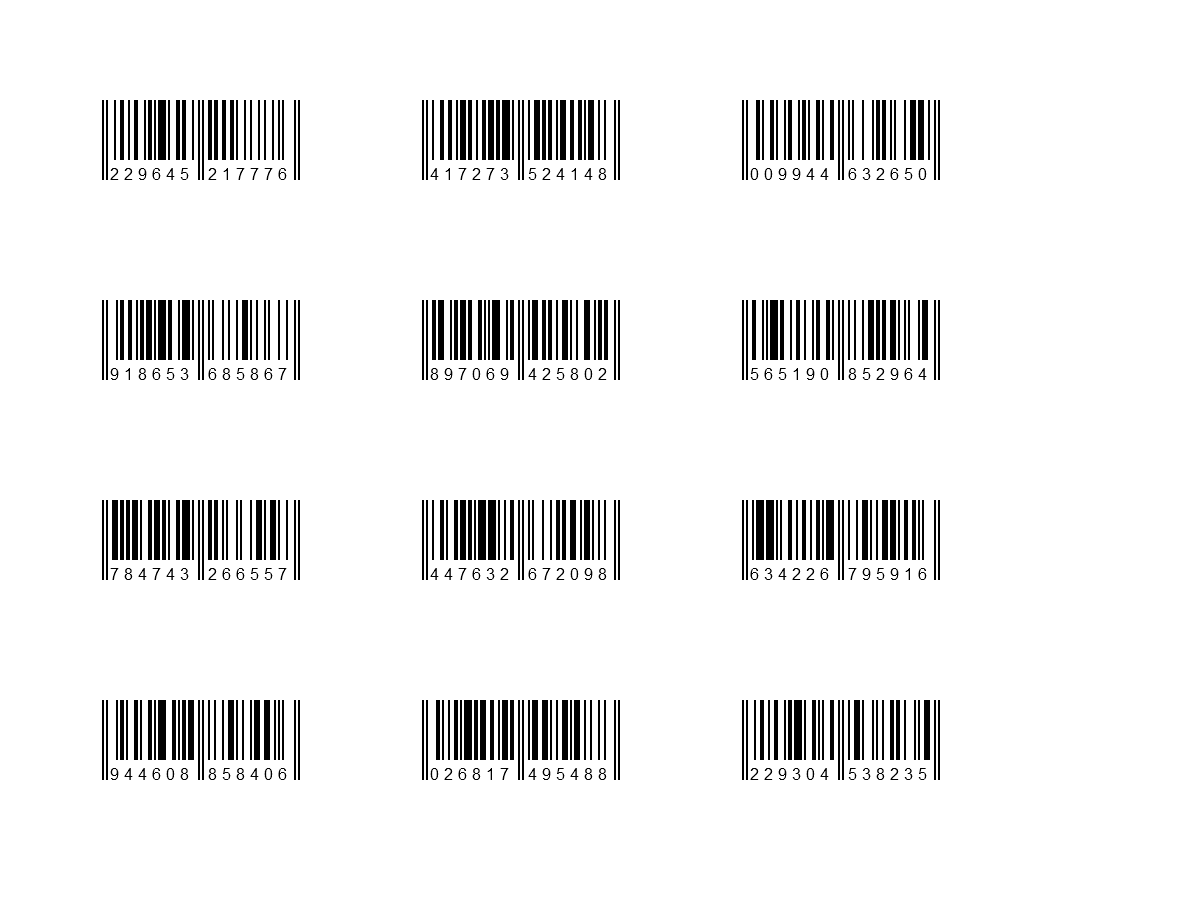
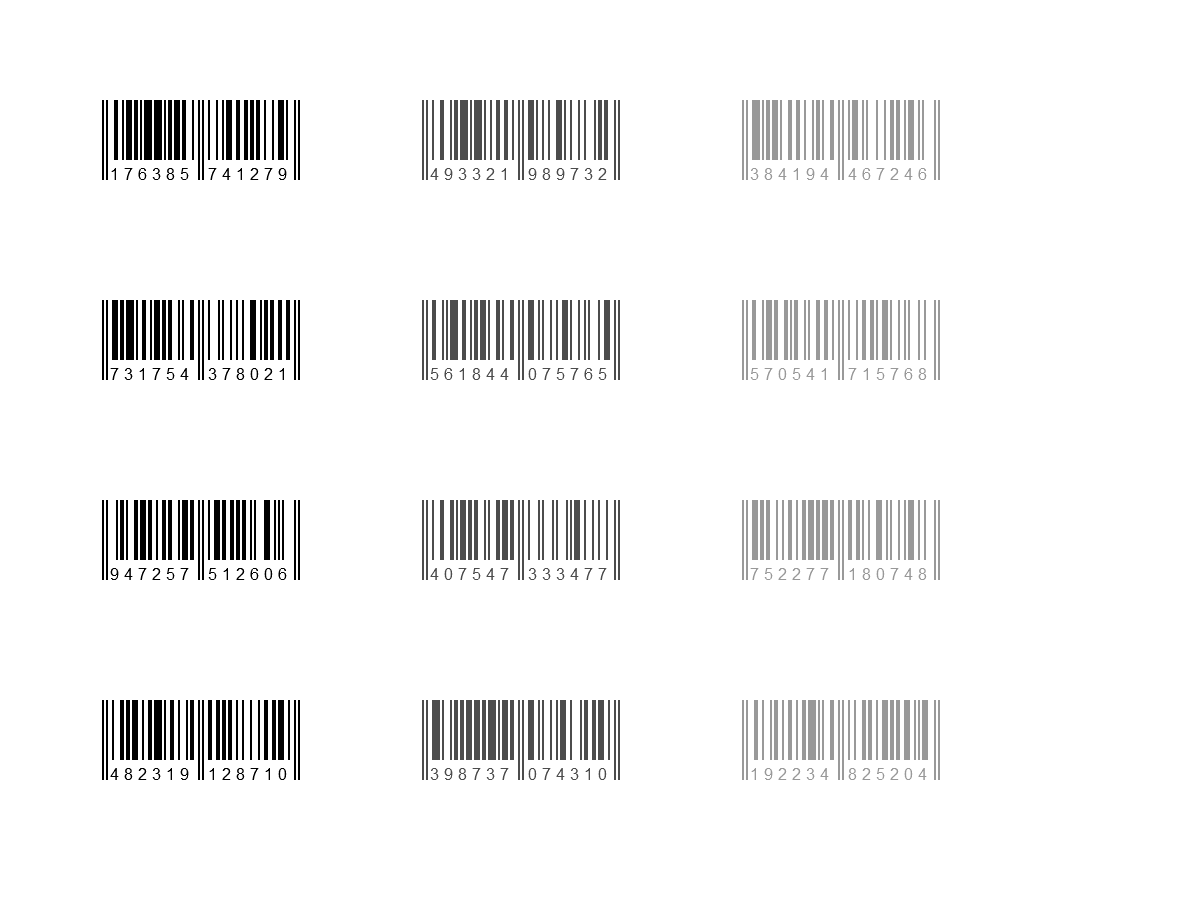
最终完成代码，添加细节

diff --git a/workhard/barcode.py b/workhard/barcode.py
@@ -3,6 +3,9 @@
 
 import random
 import cairo
+import math
+
+## 初始参数设定，转义字典
 dict_lcode = {
  0: "0001101",
  1: "0011001",
@@ -27,12 +30,12 @@ dict_rcode = {
  8: "1001000",
  9: "1110100"
 }
-WIDTH, HEIGHT = 1200, 900
+WIDTH, HEIGHT = 1200, 900         #输出图片大小
 Width_per_code = 2
-Height_per_code = 80  
-xpos,ypos=0,0
+Height_per_code = 80               #单条黑线长和宽
+xpos,ypos=0,0                      #画笔坐标设置
 surface = cairo.ImageSurface (cairo.FORMAT_ARGB32, WIDTH, HEIGHT)
-ctx = cairo.Context (surface)
+ctx = cairo.Context (surface)      #创建ctx画笔
 def Numcre():             #获得随机生成的N位数字
     num=[0]
     lnum=[]
@@ -45,77 +48,73 @@ def Numcre():             #获得随机生成的N位数字
         check2 = 0
     num.append(check2)
     for i in range(1,7):
-        lnum.append(num[i])
+        lnum.append(num[i])          #左侧数字储存数组
     for i in range(7,13):
-        rnum.append(num[i])
+        rnum.append(num[i])          #右侧
     return lnum,rnum
-def Lcodecre(num):             #左边数字转义函数
+def Lcodecre(num):                   #左边数字转义函数
     code=''
     for i in range(len(num)):
         code+=dict_lcode[num[i]]
     return code
-def Rcodecre(num):              #右边数字转义函数
+def Rcodecre(num):                    #右边数字转义函数
     code=''
     for i in range(len(num)):
         code+=dict_rcode[num[i]]
     return code   
-class Drawcode(object):     #画图父类
-    
+class Drawcode(object):                #画图父类
     def __init__(self, ctx):
         self.ctx=ctx
     def draw(self, code):
         global xpos,ypos
         ctx.move_to(xpos,ypos)
-        ctx.set_source_rgb(0, 0, 0)
         for i,c in enumerate(code):
             xpos += Width_per_code 
             if c=='1' :
                 ctx.rectangle(xpos,ypos,Width_per_code,Height_per_code)
                 ctx.fill()
         xpos += Width_per_code
-class LeftRightGuard(Drawcode):
+class LeftRightGuard(Drawcode):     #左右侧保护处画图类
     def __init__(self):
         super(LeftRightGuard, self).__init__(ctx)
-class CenterGuard(Drawcode):
+class CenterGuard(Drawcode):        #中间保护处画图类
     def __init__(self):
         super(CenterGuard, self).__init__(ctx)
-class Leftcode(Drawcode):
-    
+class Leftcode(Drawcode):            #左侧编码画图类
     def draw(self):
         global lnum
         lcode=Lcodecre(lnum)
         global xpos,ypos
         ctx.move_to(xpos,ypos)
-        ctx.set_source_rgb(0, 0, 0)
+        #ctx.set_source_rgb(0, 0, 0)
         for i,c in enumerate(lcode):
             xpos += Width_per_code 
             if c=='1' :
                 ctx.rectangle(xpos,ypos,Width_per_code,Height_per_code-20)
                 ctx.fill()
-            if i%7==0:
+            if i%7==0:               #添加数字处
                 ctx.move_to(xpos,ypos+Height_per_code)
                 ctx.set_font_size(16)
                 ctx.show_text("%s"%lnum[i/7])
         xpos += Width_per_code
-class Rightcode(Drawcode):
-    
+class Rightcode(Drawcode):          #右侧编码画图类
     def draw(self):
         global rnum
         rcode=Rcodecre(rnum)
         global xpos,ypos
         ctx.move_to(xpos,ypos)
-        ctx.set_source_rgb(0, 0, 0)
+        #ctx.set_source_rgb(0, 0, 0)
         for i,c in enumerate(rcode):
             xpos += Width_per_code 
             if c=='1' :
                 ctx.rectangle(xpos,ypos,Width_per_code,Height_per_code-20)
                 ctx.fill()
-            if i%7==0:
+            if i%7==0:               #添加数字
                 ctx.move_to(xpos,ypos+Height_per_code)
                 ctx.set_font_size(16)
                 ctx.show_text("%s"%rnum[i/7])
         xpos += Width_per_code
-def create():
+def create():                       #调用所有画图函数，生成一个条码图
     s=Drawcode(ctx)
     l=Leftcode(ctx)
     r=Rightcode(ctx)
@@ -126,13 +125,16 @@ def create():
     cg.draw("01010")
     r.draw()
     lrg.draw("101")
-for i in (0,1,2):
+for i in (0,1,2):                    #生成4X3个条码
     for j in (0,1,2,3):
         xpos=100+320*i
         ypos=100+200*j
+        ctx.set_source_rgb(0.3*i,0.3*i ,0.3*i )
         lnum,rnum=Numcre()
         create()
-surface.write_to_png("code4.png")
-
+        for k in range(18*(j+1)):     #噪点添加
+            ctx.arc(random.randint(xpos-204,xpos),random.randint(ypos,ypos+60),2,0,2*math.pi)
+            ctx.stroke()
+surface.write_to_png("code7.png")
 
    

diff --git a/workhard/test.py b/workhard/test.py
@@ -45,7 +45,7 @@ def Numcre():
     return num,lnum
 m,n=Numcre()
 print m,n'''
-WIDTH, HEIGHT = 600, 300
+'''WIDTH, HEIGHT = 600, 300
 Width_per_code = 10
 Height_per_code = 200
 code =[0,1,0,1,0]
@@ -58,4 +58,10 @@ for i,c in enumerate("01010"):
     if c=='0' :
         ctx.rectangle(xpos,0,Width_per_code,Height_per_code)
         ctx.fill()
-surface.write_to_png("3.png")
+surface.write_to_png("3.png")'''
+surface = cairo.ImageSurface (cairo.FORMAT_ARGB32, 100, 100)
+ctx = cairo.Context (surface)
+ctx.set_source_rgb(0, 0, 0)
+ctx.arc(50,50,10,0,2*math.pi)
+ctx.stroke()
+surface.write_to_png("code6.png")
